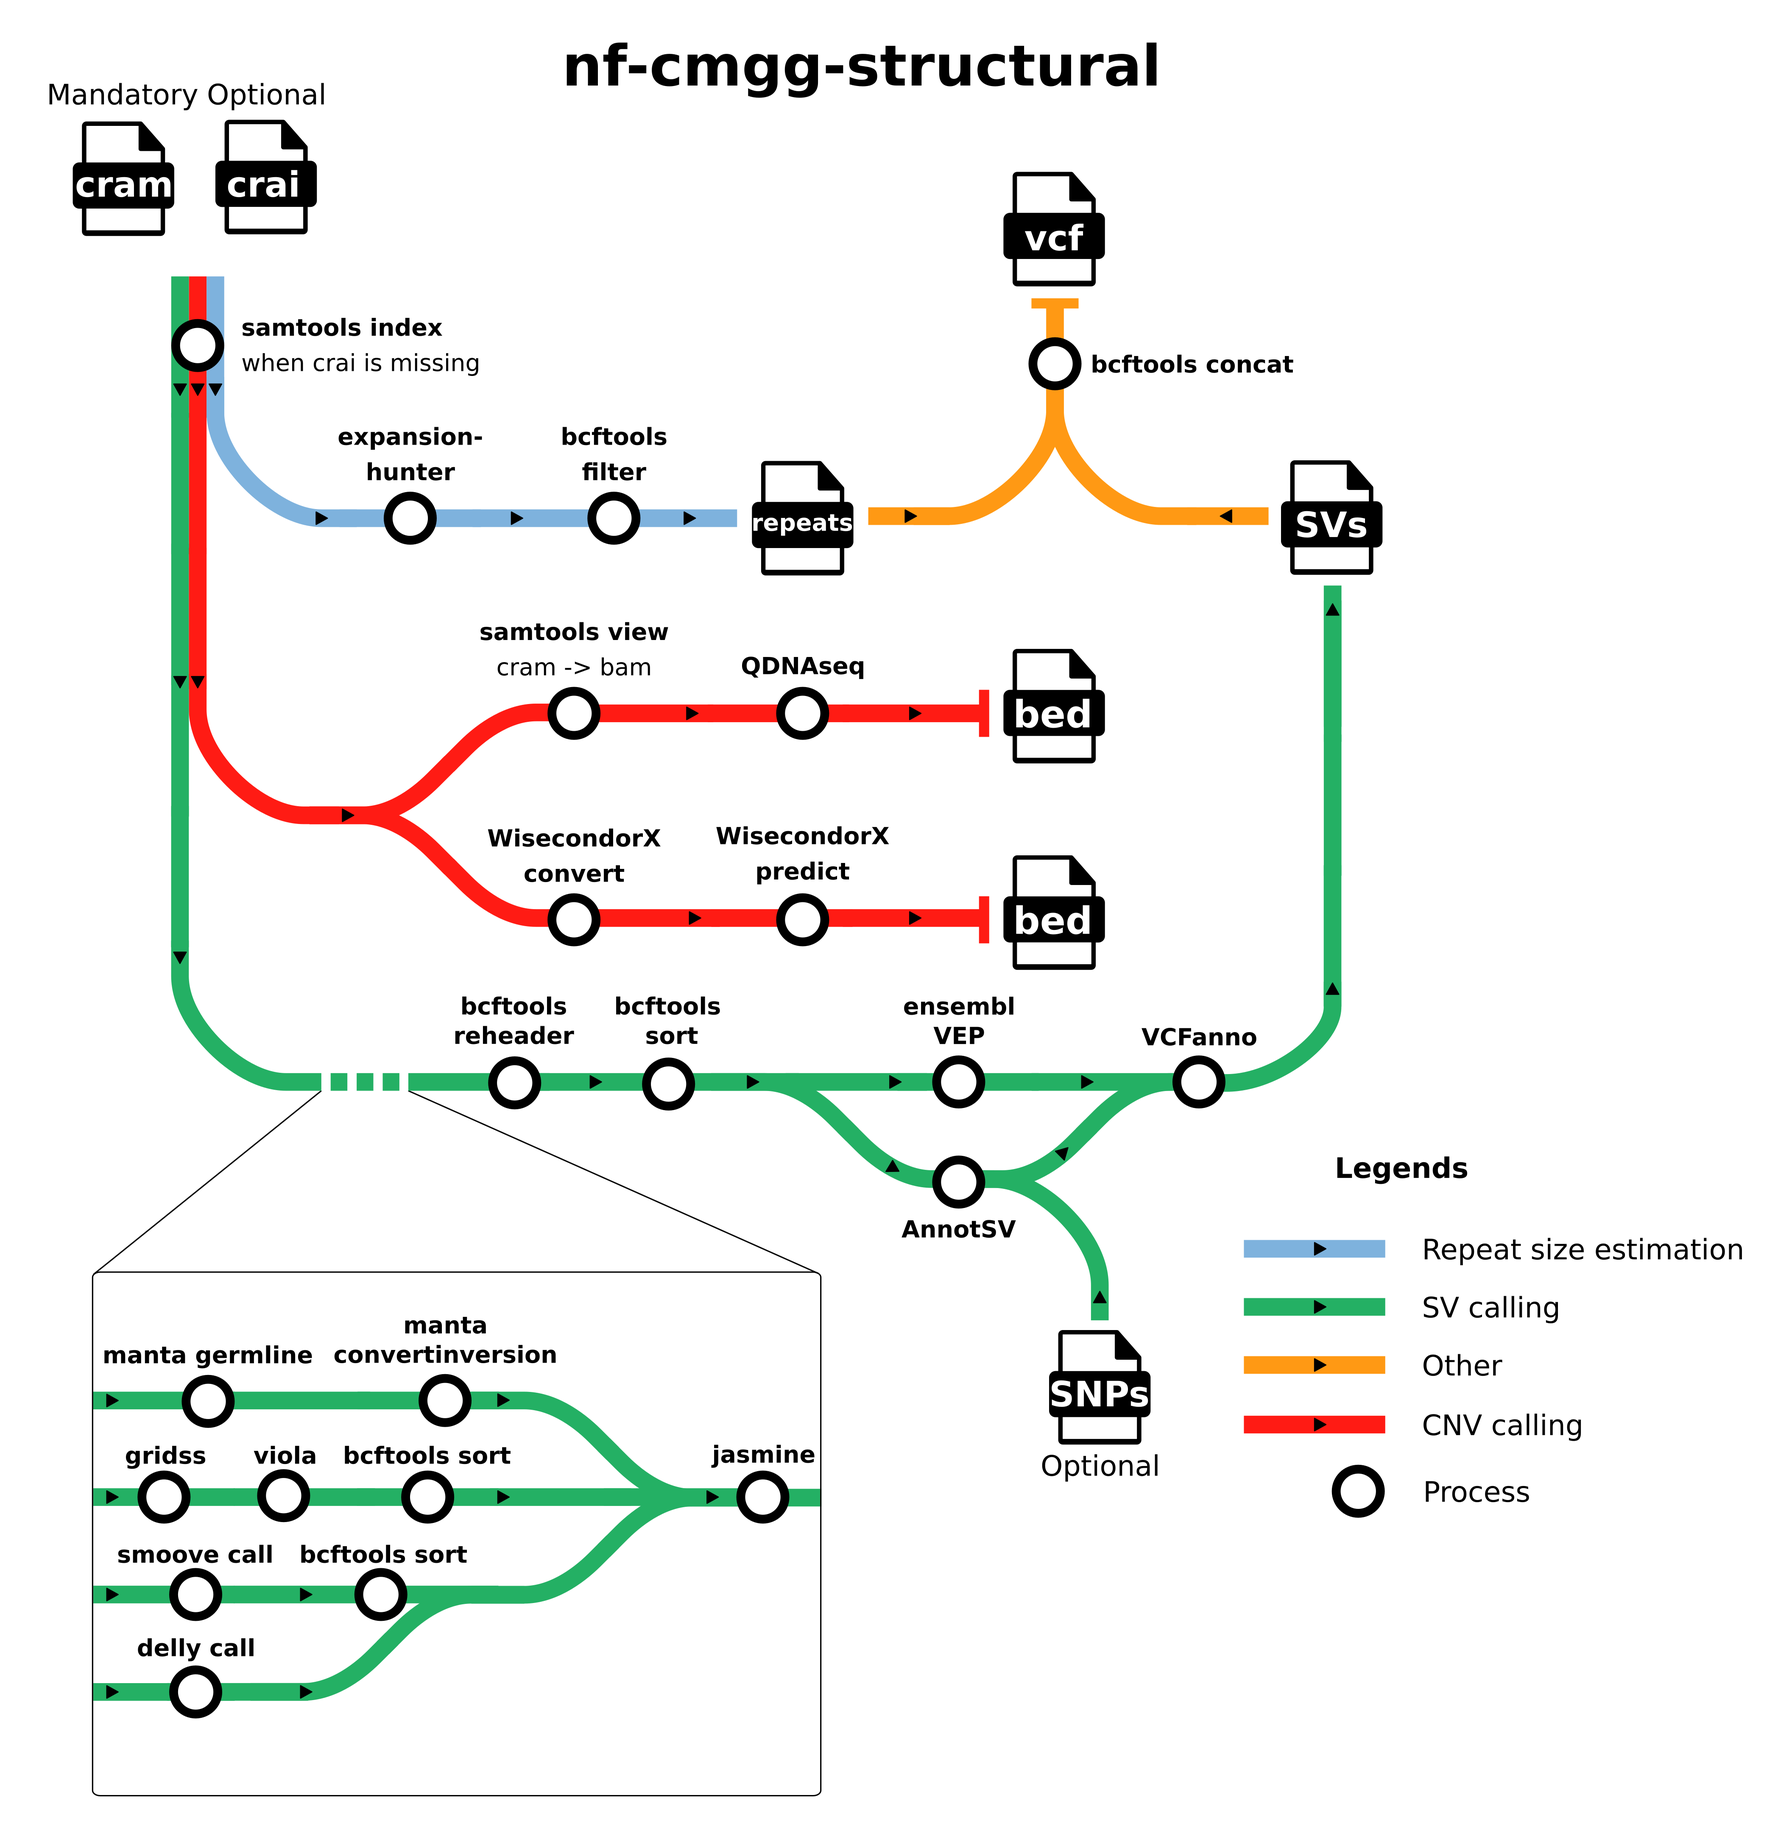
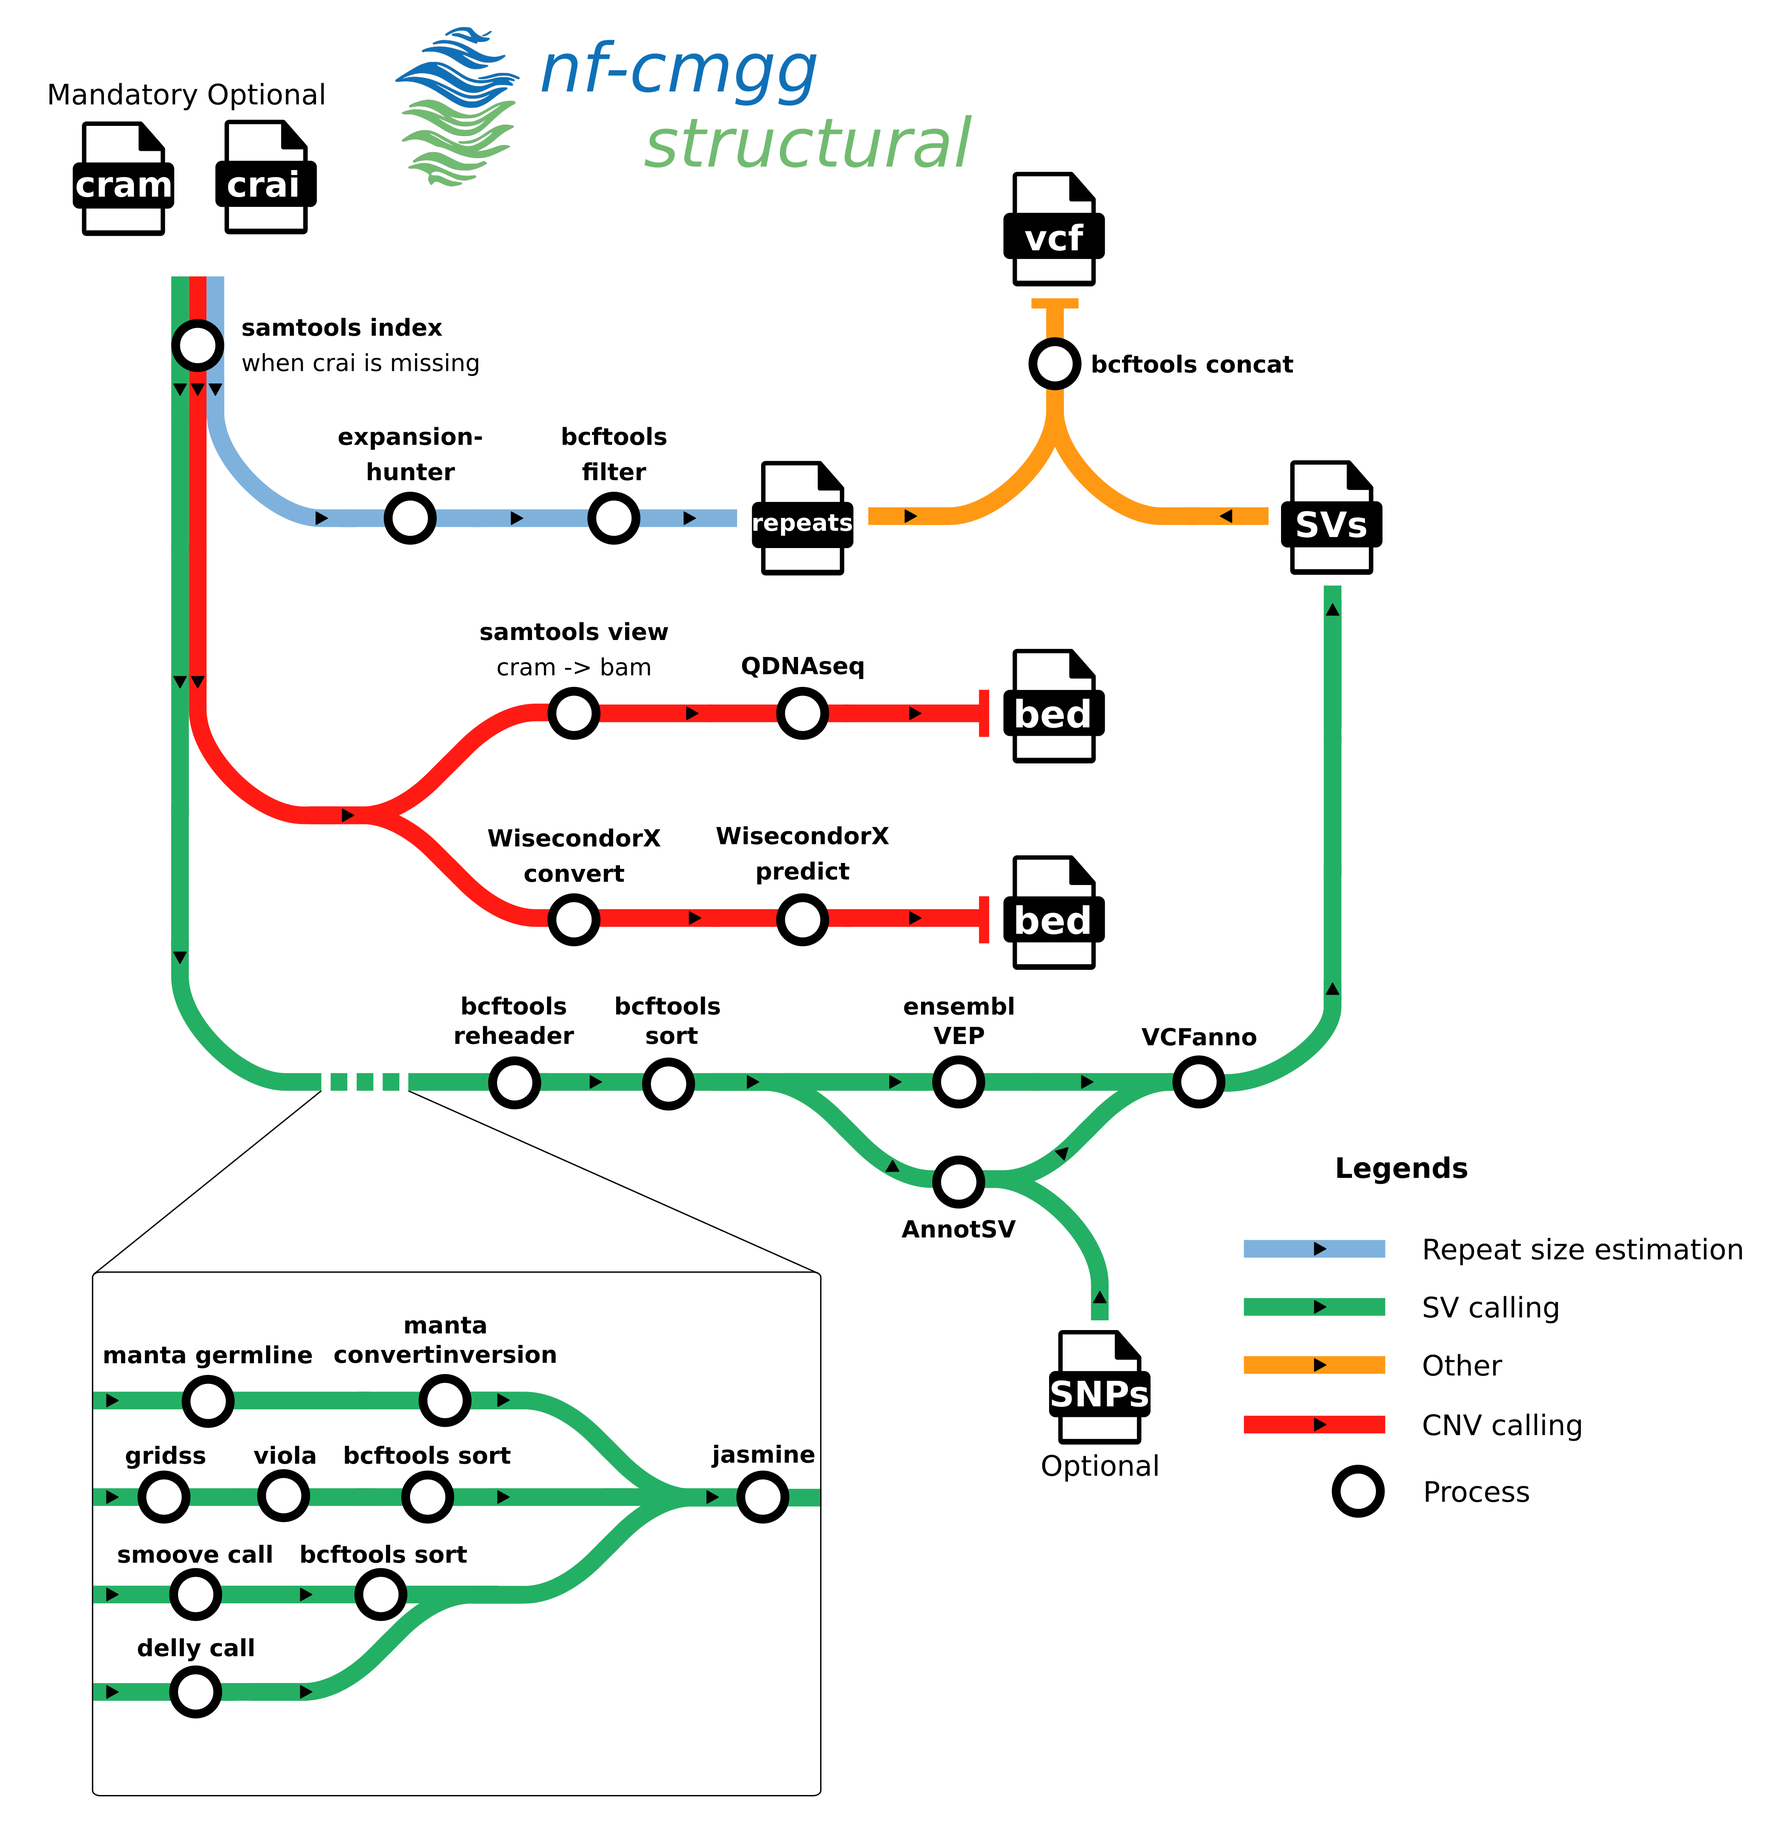
some esthetic fixes

Changed region(s): [[0.2187, 0.0, 0.6561, 0.0936]]

diff --git a/docs/output.md b/docs/output.md
@@ -29,40 +29,40 @@ The pipeline is built using [Nextflow](https://www.nextflow.io/) and processes d
 
 SV calling runs all selected callers individually and merges the calls after. Optionally, the output of the selected callers can also be stored individually. SV calling provides the following callers:
 
-- [Delly](https://github.com/dellytools/delly)
+#### [Delly](https://github.com/dellytools/delly)
 
 <details markdown="1">
 <summary>Output files</summary>
 
 - `sampleID/delly/`
   - `sampleID.delly.vcf.gz`: vcf format file with SV calls for Delly.
-- `sampleID.delly.vcf.gz.tbi`: tabix index for the vcf format file with SV calls for Delly.
+  - `sampleID.delly.vcf.gz.tbi`: tabix index for the vcf format file with SV calls for Delly.
 
 </details>
 
 [Delly](https://github.com/dellytools/delly) is an integrated structural variant (SV) prediction method that can discover, genotype and visualize deletions, tandem duplications, inversions and translocations at single-nucleotide resolution in short-read and long-read massively parallel sequencing data. It uses paired-ends, split-reads and read-depth to sensitively and accurately delineate genomic rearrangements throughout the genome.
 
-- [Manta](https://github.com/Illumina/manta)
+#### [Manta](https://github.com/Illumina/manta)
 
 <details markdown="1">
 <summary>Output files</summary>
 
 - `sampleID/manta/`
   - `sampleID.manta.vcf.gz`: vcf format file with SV calls for Manta.
-- `sampleID.manta.vcf.gz.tbi`: tabix index for the vcf format file with SV calls for Manta.
+  - `sampleID.manta.vcf.gz.tbi`: tabix index for the vcf format file with SV calls for Manta.
 
  </details>
 
 [Manta](https://github.com/Illumina/manta) calls structural variants (SVs) and indels from mapped paired-end sequencing reads. It is optimized for analysis of germline variation in small sets of individuals and somatic variation in tumor/normal sample pairs. Manta discovers, assembles and scores large-scale SVs, medium-sized indels and large insertions within a single efficient workflow. The method is designed for rapid analysis on standard compute hardware: NA12878 at 50x genomic coverage is analyzed in less than 20 minutes on a 20 core server, and most WGS tumor/normal analyses can be completed within 2 hours. Manta combines paired and split-read evidence during SV discovery and scoring to improve accuracy, but does not require split-reads or successful breakpoint assemblies to report a variant in cases where there is strong evidence otherwise. It provides scoring models for germline variants in small sets of diploid samples and somatic variants in matched tumor/normal sample pairs. There is experimental support for analysis of unmatched tumor samples as well. Manta accepts input read mappings from BAM or CRAM files and reports all SV and indel inferences in VCF 4.1 format. See the user guide for a full description of capabilities and limitations.
 
-- [Smoove](https://github.com/brentp/smoove)
+#### [Smoove](https://github.com/brentp/smoove)
 
 <details markdown="1">
 <summary>Output files</summary>
 
 - `sampleID/smoove/`
   - `sampleID.smoove.vcf.gz`: vcf format file with SV calls for Smoove.
-- `sampleID.smoove.vcf.gz.tbi`: tabix index for the vcf format file with SV calls for Smoove.
+  - `sampleID.smoove.vcf.gz.tbi`: tabix index for the vcf format file with SV calls for Smoove.
 
  </details>
 
@@ -80,37 +80,37 @@ SV calling runs all selected callers individually and merges the calls after. Op
 
 CNV calling runs all selected callers individually and merges the calls after. Optionally, the output of the selected callers can also be stored individually. If this option is not selected, than files that would normally appear in the callers' result directories are provided in the main results directory. CNV calling provides the following callers:
 
-- [WisecondorX](https://github.com/CenterForMedicalGeneticsGhent/WisecondorX)
+#### [WisecondorX](https://github.com/CenterForMedicalGeneticsGhent/WisecondorX)
 
 <details markdown="1">
 <summary>Output files</summary>
 
 - `sampleID/wisecondorx/`
-- `sampleID.wisecondorx.vcf.gz`: vcf format file with CNV calls for WisecondorX.
-- `sampleID.wisecondorx.vcf.gz.tbi`: tabix index for the vcf format file with CNV calls for WisecondorX.
-- `sampleID.wisecondorx_aberrations.bed`: bed format file with aberrant segments.
-- `sampleID.wisecondorx_bins.bed`: bed format file with bin-wise information.
-- `sampleID.wisecondorx_segments.bed`: bed format file with segment-wise information.
-- `sampleID/chr1-X.png`: copy number profiles for every chromosome.
-- `sampleID/genome_wide.png`: genome-wide copy number profiles.
+  - `sampleID.wisecondorx.vcf.gz`: vcf format file with CNV calls for WisecondorX.
+  - `sampleID.wisecondorx.vcf.gz.tbi`: tabix index for the vcf format file with CNV calls for WisecondorX.
+  - `sampleID.wisecondorx_aberrations.bed`: bed format file with aberrant segments.
+  - `sampleID.wisecondorx_bins.bed`: bed format file with bin-wise information.
+  - `sampleID.wisecondorx_segments.bed`: bed format file with segment-wise information.
+  - `sampleID/chr1-X.png`: copy number profiles for every chromosome.
+  - `sampleID/genome_wide.png`: genome-wide copy number profiles.
 
 </details>
 
 After extensively comparing different (shallow) whole-genome sequencing-based copy number detection tools, including WISECONDOR, QDNAseq, CNVkit, Control-FREEC, BIC-seq2 and cn.MOPS, WISECONDOR appeared to normalize sequencing data in the most consistent way, as shown by our paper. Nevertheless, WISECONDOR has limitations: Stouffer's Z-score approach is error-prone when dealing with large amounts of aberrations, the algorithm is extremely slow (24h) when operating at small bin sizes (15 kb), and sex chromosomes are not part of the analysis. Here, we present WisecondorX, an evolved WISECONDOR that aims at dealing with previous difficulties, resulting in overall superior results and significantly lower computing times, allowing daily diagnostic use. WisecondorX is meant to be applicable not only to NIPT, but also gDNA, PGT, FFPE, LQB, ... etc.
 
-- [QDNAseq](https://github.com/ccagc/QDNAseq)
+#### [QDNAseq](https://github.com/ccagc/QDNAseq)
 
 <details markdown="1">
 <summary>Output files</summary>
 
 - `sampleID/qdnaseq/`
-- `sampleID.qdnaseq.abberations.bed`: bed format file with aberrant copy numbers.
-- `sampleID.qdnaseq.bed`: bed format file with copy numbers.
-- `sampleID.qdnaseq.cna`: file with bin-wise information.
-- `sampleID.qdnaseq.vcf.gz`: vcf format file with CNV calls for QDNAseq.
-- `sampleID.qdnaseq.vcf.gz.tbi`: tabix index for the vcf format file with CNV calls for QDNAseq.
-- `sampleID.qdnaseq_segments.txt`: file with segment-wise information.
-- `statistics.out`: statistics report.
+  - `sampleID.qdnaseq.abberations.bed`: bed format file with aberrant copy numbers.
+  - `sampleID.qdnaseq.bed`: bed format file with copy numbers.
+  - `sampleID.qdnaseq.cna`: file with bin-wise information.
+  - `sampleID.qdnaseq.vcf.gz`: vcf format file with CNV calls for QDNAseq.
+  - `sampleID.qdnaseq.vcf.gz.tbi`: tabix index for the vcf format file with CNV calls for QDNAseq.
+  - `sampleID.qdnaseq_segments.txt`: file with segment-wise information.
+  - `statistics.out`: statistics report.
 
 </details>
 
@@ -130,13 +130,14 @@ RRE calling runs all selected callers individually and merges the calls after. O
 
 </details>
 
-- [ExpansionHunter](https://github.com/Illumina/ExpansionHunter)
+#### [ExpansionHunter](https://github.com/Illumina/ExpansionHunter)
 
 <details markdown="1">
 <summary>Output files</summary>
 
-- `sampleID/sampleID.expansionhunter.vcf.gz`: vcf format file with RRE calls for ExpansionHunter.
-- `sampleID/sampleID.expansionhunter.vcf.gz.tbi`: tabix index for the vcf format file with RRE calls for ExpansionHunter.
+- `sampleID/expansionhunter/`
+  - `sampleID/sampleID.expansionhunter.vcf.gz`: vcf format file with RRE calls for ExpansionHunter.
+  - `sampleID/sampleID.expansionhunter.vcf.gz.tbi`: tabix index for the vcf format file with RRE calls for ExpansionHunter.
 
 </details>
 
@@ -154,14 +155,14 @@ There are a number of regions in the human genome consisting of repetitions of s
 
 SV annotation runs each annotation method individually and merges their output after. SV calling provides the following annotation methods:
 
-- [AnnotSV](https://github.com/lgmgeo/AnnotSV)
+#### [AnnotSV](https://github.com/lgmgeo/AnnotSV)
 
 </details>
 
 [AnnotSV](https://github.com/lgmgeo/AnnotSV) is a program designed for annotating and ranking Structural Variations (SV). This tool compiles functionally, regulatory and clinically relevant information and aims at providing annotations useful to i. interpret SV potential pathogenicity and ii. filter out SV potential false positives. Different types of SV exist including deletions, duplications, insertions, inversions, translocations or more complex rearrangements. They can be either balanced or unbalanced. When unbalanced and resulting in a gain or loss of material, they are called Copy Number Variations (CNV). CNV can be described by coordinates on one chromosome, with the start and end positions of the SV (deletions, insertions, duplications).Complex rearrangements with several breakends can arbitrary be summarized as a set of novel adjacencies, as described
 in the Variant Call Format specification VCFv4.3.
 
-- [ensembl VEP](https://www.ensembl.org/info/docs/tools/vep/index.html)
+#### [ensembl VEP](https://www.ensembl.org/info/docs/tools/vep/index.html)
 
 </details>
 

diff --git a/docs/usage.md b/docs/usage.md
@@ -105,7 +105,8 @@ If you wish to repeatedly use the same parameters for multiple runs, rather than
 Pipeline settings can be provided in a `yaml` or `json` file via `-params-file <file>`.
 
 !!!warning
-Do not use `-c <file>` to specify parameters as this will result in errors. Custom config files specified with `-c` must only be used for [tuning process resource specifications](https://nf-co.re/docs/usage/configuration#tuning-workflow-resources), other infrastructural tweaks (such as output directories), or module arguments (args).
+
+    Do not use `-c <file>` to specify parameters as this will result in errors. Custom config files specified with `-c` must only be used for [tuning process resource specifications](https://nf-co.re/docs/usage/configuration#tuning-workflow-resources), other infrastructural tweaks (such as output directories), or module arguments (args).
 
 The above pipeline run specified with a params file in yaml format:
 
@@ -141,12 +142,14 @@ This version number will be logged in reports when you run the pipeline, so that
 To further assist in reproducbility, you can use share and re-use [parameter files](#running-the-pipeline) to repeat pipeline runs with the same settings without having to write out a command with every single parameter.
 
 !!!tip
-If you wish to share such profile (such as upload as supplementary material for academic publications), make sure to NOT include cluster specific paths to files, nor institutional specific profiles.
+
+    If you wish to share such profile (such as upload as supplementary material for academic publications), make sure to NOT include cluster specific paths to files, nor institutional specific profiles.
 
 ## Core Nextflow arguments
 
 !!!note
-These options are part of Nextflow and use a _single_ hyphen (pipeline parameters use a double-hyphen).
+
+    These options are part of Nextflow and use a _single_ hyphen (pipeline parameters use a double-hyphen).
 
 ### `-profile`
 
@@ -155,7 +158,8 @@ Use this parameter to choose a configuration profile. Profiles can give configur
 Several generic profiles are bundled with the pipeline which instruct the pipeline to use software packaged using different methods (Docker, Singularity, Podman, Shifter, Charliecloud, Apptainer, Conda) - see below.
 
 !!!info
-We highly recommend the use of Docker or Singularity containers for full pipeline reproducibility, however when this is not possible, Conda is also supported.
+
+    We highly recommend the use of Docker or Singularity containers for full pipeline reproducibility, however when this is not possible, Conda is also supported.
 
 The pipeline also dynamically loads configurations from [https://github.com/nf-core/configs](https://github.com/nf-core/configs) when it runs, making multiple config profiles for various institutional clusters available at run time. For more information and to see if your system is available in these configs please see the [nf-core/configs documentation](https://github.com/nf-core/configs#documentation).
 

diff --git a/docs/index.md b/docs/index.md
@@ -3,6 +3,8 @@ title: nf-cmgg/structural
 description: A bioinformatics best-practice analysis pipeline for calling structural variants (SVs), copy number variants (CNVs) and repeat region expansions (RREs) from short DNA reads
 ---
 
+![pipeline_logo](images/pipeline_logo_full.png)
+
 ## Introduction
 
 **nf-cmgg/structural** is a bioinformatics best-practice analysis pipeline for calling structural variants (SVs), copy number variants (CNVs) and repeat region expansions (RREs) from short DNA reads. The pipeline handles the calling of the variants and postprocessing (filtering, annotating...)
@@ -29,17 +31,14 @@ nextflow run nf-cmgg/structural \
 ```
 
 !!! warning
-Please provide pipeline parameters via the CLI or Nextflow `-params-file` option. Custom config files including those
-provided by the `-c` Nextflow option can be used to provide any configuration _**except for parameters**_;
-see [docs](https://nf-co.re/usage/configuration#custom-configuration-files).
+
+    Please provide pipeline parameters via the CLI or Nextflow `-params-file` option. Custom config files including those
+    provided by the `-c` Nextflow option can be used to provide any configuration _**except for parameters**_;
+    see [docs](https://nf-co.re/usage/configuration#custom-configuration-files).
 
 ## Documentation
 
 The nf-cmgg/structural pipeline comes with documentation about the pipeline [usage](usage.md) and [output](output.md).
-
-!!! warning
-Please provide pipeline parameters via the CLI or Nextflow `-params-file` option. Custom config files including those provided by the `-c` Nextflow option can be used to provide any configuration _**except for parameters**_;
-see [docs](https://nf-co.re/usage/configuration#custom-configuration-files).
 
 ## Credits
 

diff --git a/README.md b/README.md
@@ -1,3 +1,5 @@
+![pipeline_logo](docs/images/pipeline_logo_full.png)
+
 [![GitHub Actions CI Status](https://github.com/nf-cmgg/structural/actions/workflows/ci.yml/badge.svg)](https://github.com/nf-cmgg/structural/actions/workflows/ci.yml)
 [![GitHub Actions Linting Status](https://github.com/nf-cmgg/structural/actions/workflows/linting.yml/badge.svg)](https://github.com/nf-cmgg/structural/actions/workflows/linting.yml)
 [![nf-test](https://img.shields.io/badge/unit_tests-nf--test-337ab7.svg)](https://www.nf-test.com)
